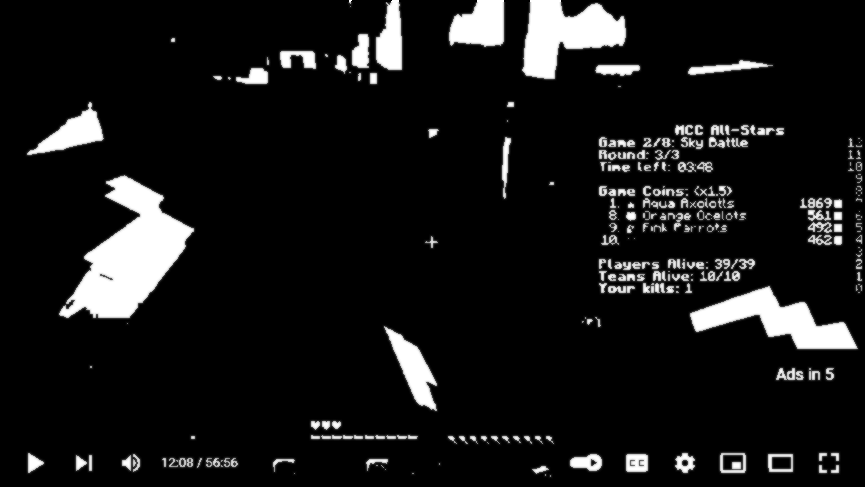
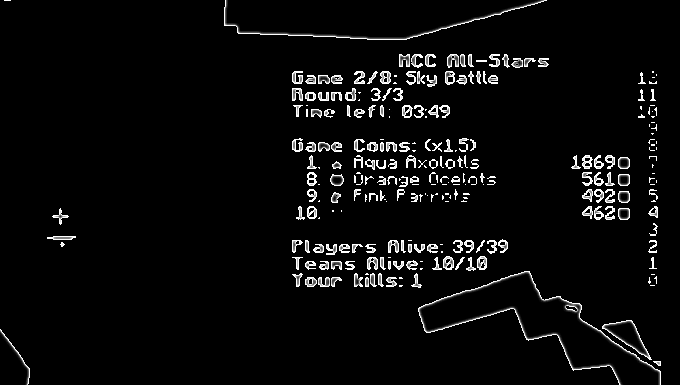
now has edge detection need to scale back how much is white though so pytesseract can read the words better

diff --git a/main.py b/main.py
@@ -1,31 +1,39 @@
-# import pytesseract
-from PIL import Image, ImageFilter
 # from scipy.ndimage.filters import gaussian_filter
 # import numpy
-# from selenium import webdriver
-# from selenium.webdriver.common.by import By
+from selenium import webdriver
+from selenium.webdriver.common.by import By
+import pytesseract
 import time
+import cv2
+
+from PIL import Image, ImageFilter
 
 
 def main():
-    # driver = webdriver.Chrome()
-    # driver.get("https://youtu.be/KcVHmlYsjnY?t=728")
-    # time.sleep(5)
-    # elem = driver.find_element(By.XPATH, '//*[@id="movie_player"]')
-    # time.sleep(2)
-    # elem.screenshot("yo.png")
+    driver = webdriver.Chrome()
+    driver.get("https://youtu.be/KcVHmlYsjnY?t=728")
+    time.sleep(5)
+    elem = driver.find_element(By.XPATH, '//*[@id="movie_player"]')
+    elem.click()
+    time.sleep(0.4)
+    elem.click()
+    time.sleep(.5)
+    elem.send_keys("f")
+    elem.screenshot("yo.png")
     origin = Image.open("yo.png")
     black_and_white = origin.convert("L")
     threshold = black_and_white.point(lambda p: p > 100 and 255)
     threshold = threshold.filter(ImageFilter.EDGE_ENHANCE_MORE)
     threshold = threshold.filter(ImageFilter.SHARPEN)
     threshold = threshold.filter(ImageFilter.SMOOTH_MORE)
+    threshold = threshold.filter(ImageFilter.FIND_EDGES)
+    w, h = threshold.size
+    threshold = threshold.crop((580, 120, w-20, h-170))
     threshold.save("wow.png")
     time.sleep(.2)
     cropped = Image.open("wow.png")
-    w, h = cropped.size
-    wow = cropped.crop((580, 120, w, h-140))
-    wow.save("out.png")
+    print(pytesseract.image_to_string(cropped))
+
 
 if __name__ == '__main__':
     main()
